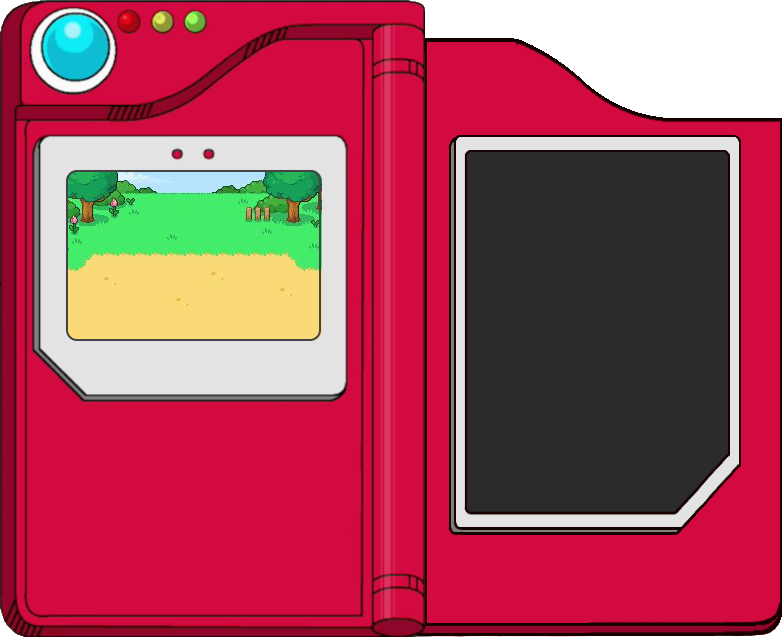
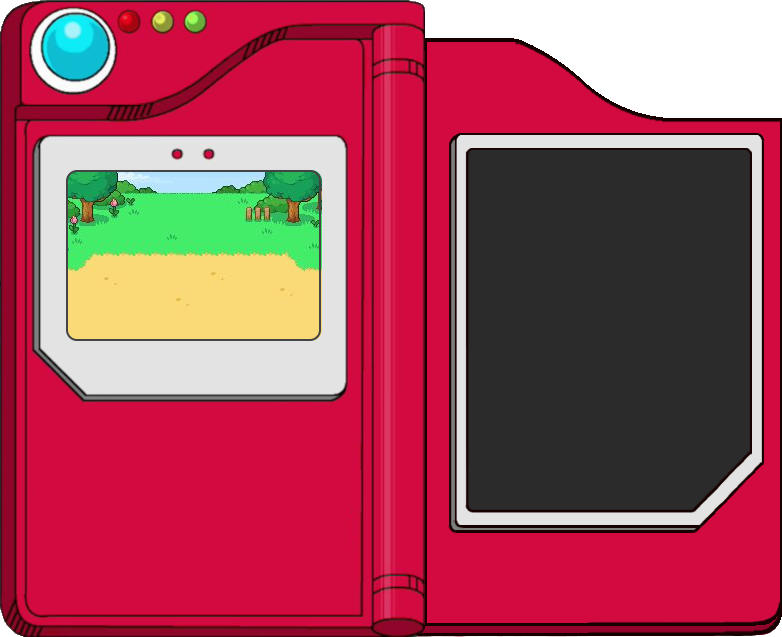
add right side of pokedex

Changed region(s): [[0.5524, 0.2088, 0.9821, 0.865]]

diff --git a/assets/css/style.css b/assets/css/style.css
@@ -1,7 +1,7 @@
-/* Importando a fonte */
+/* Importing font */
 @import url('https://fonts.googleapis.com/css2?family=Oxanium:wght@300;400;500;600;700;800&display=swap');
 
-/* config geral */
+/* general config */
 * {
   margin: 0;
   padding: 0;
@@ -23,12 +23,12 @@ main {
   position: relative;
 }
 
-/* Pokedex */
 .pokedex {
   width: 100%;
   max-width: 550px;
 }
 
+/* Pokedex left side*/
 .pokemon__image {
     position: absolute;
     left: 28.5%;
@@ -37,7 +37,7 @@ main {
     height: 18%;
 }
 
-.pokemon__basic {
+.pokemon__basicData {
   position: absolute;
   font-weight: 600;
   font-size: clamp(6px, 3vw, 20px); /* min, defaut, max */
@@ -46,7 +46,7 @@ main {
   left: 21%;
 }
 
-.pokemon__basic--name {
+.pokemon__basicData--name {
   color: #3A444D;
   text-transform: capitalize;
 }
@@ -95,4 +95,64 @@ main {
   box-shadow: inset -2px 3px 0 #222222;
   transition: 0.09s;
   font-size: 0.75rem;
+}
+
+/* pokedex right side */
+.pokedex__right {
+  position: absolute;
+  width: 34.5%;
+  height: 53%;
+  bottom: 22%;
+  left: 59%;
+  padding: 7px;
+  color: #8FA88F;
+  display: flex;
+  flex-direction: column;
+  gap: 6%;
+  font-size: clamp(4px, 3vw, 15px);
+}
+
+.pokedex__right--title {
+  font-size: clamp(4px, 3vw, 20px);
+  text-align: center;
+  line-height: 0.7rem;
+}
+
+.atributes {
+  display: grid;
+  grid-template-columns: auto 1fr;
+  column-gap: 10%;
+  row-gap: 8%;
+}
+
+.atributes--name {
+  text-transform: capitalize;
+  grid-column: span 2;
+}
+
+.atributes--weight {
+  grid-column: span 2;
+}
+
+.types__container {
+  display: grid;
+  grid-template-columns: auto 1fr 1fr;
+  column-gap: 4%;
+  row-gap: 10%;
+}
+
+.types--title {
+  grid-row: span 2;
+}
+
+.type {
+  background-color: #8FA88F;
+  color: #333333;
+  border-radius: 60px;
+  display: flex;
+  justify-content: center;
+}
+
+.type--name {
+  text-transform: capitalize;
 }

diff --git a/index.html b/index.html
@@ -18,10 +18,10 @@
     </head>
     <body>
         <main>
-            <section class="pokedex-left">
-                <h1 class="pokemon__basic">
-                    <span class="pokemon__basic--number">6</span> -
-                    <span class="pokemon__basic--name">charizard</span>
+            <section class="pokedex__left">
+                <h1 class="pokemon__basicData">
+                    <span class="pokemon__basicData--number">6</span> -
+                    <span class="pokemon__basicData--name">charizard</span>
                 </h1>
     
                 <img src="https://raw.githubusercontent.com/PokeAPI/sprites/master/sprites/pokemon/versions/generation-v/black-white/animated/6.gif" alt="Pokemon" class="pokemon__image">
@@ -34,7 +34,22 @@
                     <button class="button button__prev">&lt; prev</button>
                     <button class="button button__next">next &gt;</button>
                 </div>
-                
+            </section>
+
+            <section class="pokedex__right">
+                <h2 class="pokedex__right--title">Pokemon data</h2>
+                <div class="atributes">
+                    <span class="atributes--name">Name: charizard</span>
+                    <span class="atributes--number">N: 6</span>
+                    <span class="atributes--height">Height: 1.7 m</span>
+                    <span class="atributes--weight">Weight: 90.5 kg</span>
+                </div>
+                <div class="types__container">
+                    <span class="types--title">Type: </span>
+                    <div class="type">
+                        <span class="type--name">fire</span>
+                    </div>
+                </div>
             </section>
 
             <img src="assets/Images/Pokedex.png " alt="Pokedex" class="pokedex">
